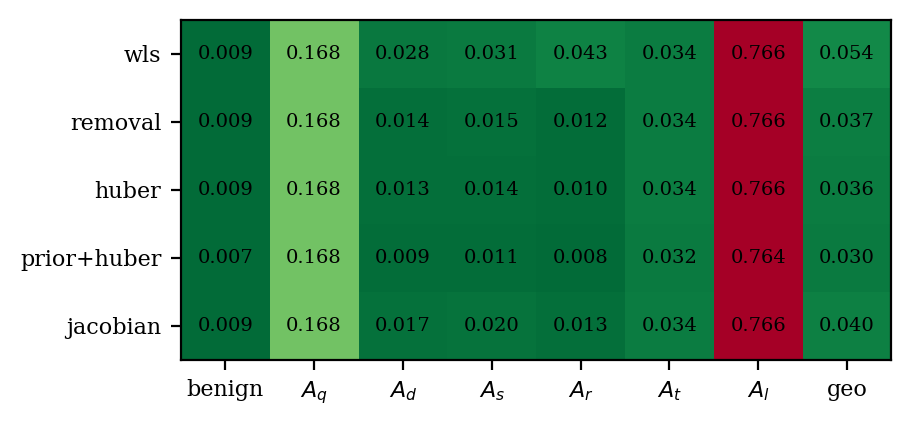
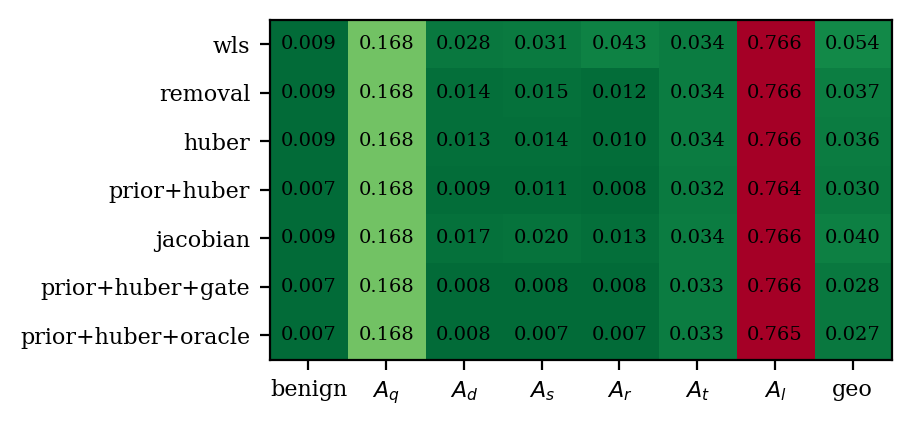
SE docs: IEEE-300 column (#62)
The IEEE-300 column of the SE docs: all arms except residual removal, Jacobian weighting and gated numbers, per-family heatmap.

diff --git a/docs/se/README.md b/docs/se/README.md
@@ -35,70 +35,74 @@ rep  = est.score(test)      # per-family angle/voltage MAE vs the clean truth
 
 ## Results
 
-Test partition, validation-selected hyperparameters from the estimation paper (Huber `c` 1.5 / 2.5,
-rank fraction 0.20 / 0.50, removal threshold 4.0 / 5.0 on IEEE 14 / 118). Each cell is the mean
-absolute error aggregated over the seven record classes as a geometric mean. Full metrics in
-`results/se_ieee{14,118}.json`. IEEE 300 follows once its run finishes (the robust arms take hours
-per system on 300; each estimator's estimates are cached as it completes).
+Test partition, validation-selected hyperparameters from the estimation paper (Huber `c` 1.5 / 2.5 /
+6.0, rank fraction 0.20 / 0.50 / 0.50 on IEEE 14 / 118 / 300; removal threshold 4.0 / 5.0 on 14 / 118). Each cell
+is the mean absolute error aggregated over the seven record classes as a geometric mean. Full metrics
+in `results/se_ieee{14,118,300}.json`. Residual removal is not run on IEEE 300: its per-record
+observability guard takes many hours at that size, and the estimation paper found no removal
+threshold that helped on 300.
 
 **Estimator comparison**
 
-| Estimator | IEEE 14 | IEEE 118 |
-|---|---:|---:|
-| *Angle MAE (deg)* | | |
-| WLS baseline | 0.108 | 0.054 |
-| Residual removal | 0.070 | 0.037 |
-| Adaptive weighting | 0.068 | 0.036 |
-| **Prior + Huber (proposed)** | **0.059** | **0.030** |
-| Jacobian weighting | 0.087 | 0.040 |
-| **Prior + Huber + CNN gate** | **0.041** | **0.028** |
-| Prior + Huber + oracle gate (ceiling) | 0.039 | 0.028 |
-| WLS error reduction (proposed) | 45% | 45% |
-| WLS error reduction (gated) | 62% | 48% |
+| Estimator | IEEE 14 | IEEE 118 | IEEE 300 |
+|---|---:|---:|---:|
+| *Angle MAE (deg)* | | | |
+| WLS baseline | 0.108 | 0.054 | 0.097 |
+| Residual removal | 0.070 | 0.037 | not run |
+| Adaptive weighting | 0.068 | 0.036 | 0.068 |
+| **Prior + Huber (proposed)** | **0.059** | **0.030** | **0.058** |
+| Jacobian weighting | 0.087 | 0.040 | 0.074 |
+| **Prior + Huber + CNN gate** | **0.041** | **0.028** | **0.055** |
+| Prior + Huber + oracle gate (ceiling) | 0.039 | 0.027 | 0.054 |
+| WLS error reduction (proposed) | 45% | 45% | 40% |
+| WLS error reduction (gated) | 62% | 48% | 43% |
 
-| Estimator | IEEE 14 | IEEE 118 |
-|---|---:|---:|
-| *Voltage MAE (10^-3 pu)* | | |
-| WLS baseline | 0.606 | 0.165 |
-| Residual removal | 0.427 | 0.113 |
-| Adaptive weighting | 0.380 | 0.111 |
-| **Prior + Huber (proposed)** | **0.147** | **0.028** |
-| Jacobian weighting | 0.494 | 0.125 |
-| **Prior + Huber + CNN gate** | **0.161** | **0.029** |
-| Prior + Huber + oracle gate (ceiling) | 0.158 | 0.027 |
-| WLS error reduction (proposed) | 76% | 83% |
+| Estimator | IEEE 14 | IEEE 118 | IEEE 300 |
+|---|---:|---:|---:|
+| *Voltage MAE (10^-3 pu)* | | | |
+| WLS baseline | 0.606 | 0.165 | 0.321 |
+| Residual removal | 0.427 | 0.113 | not run |
+| Adaptive weighting | 0.380 | 0.111 | 0.250 |
+| **Prior + Huber (proposed)** | **0.147** | **0.028** | **0.114** |
+| Jacobian weighting | 0.494 | 0.125 | 0.261 |
+| **Prior + Huber + CNN gate** | **0.161** | **0.029** | **0.106** |
+| Prior + Huber + oracle gate (ceiling) | 0.158 | 0.027 | 0.105 |
+| WLS error reduction (proposed) | 76% | 83% | 64% |
 
-The estimation paper reports, on v0.4.1 data, angle 0.164 → 0.068 (14) and 0.075 → 0.033 (118) from
-WLS to the proposed estimator, and voltage reductions of 57% and 85%. The v0.7.2 shards carry the
-accuracy-class meter model, so absolute errors are lower, and the ordering and the reductions hold.
+The estimation paper reports, on v0.4.1 data, angle 0.164 → 0.068 (14), 0.075 → 0.033 (118) and
+0.129 → 0.068 (300) from WLS to the proposed estimator, and voltage reductions of 57%, 85% and 68%.
+The v0.7.2 shards carry the accuracy-class meter model, so absolute errors are lower, and the
+ordering and the reductions hold on all three systems.
 
 **Per-family results of the proposed estimator.** Baseline cells are the WLS error, reduction is
 the proposed estimator's percent reduction over that baseline.
 
-| Family | Base angle (deg) 14 | Base angle (deg) 118 | Base volt (10^-3) 14 | Base volt (10^-3) 118 | Angle red. (%) 14 | Angle red. (%) 118 | Volt red. (%) 14 | Volt red. (%) 118 |
-|---|---:|---:|---:|---:|---:|---:|---:|---:|
-| Benign | 0.008 | 0.009 | 0.15 | 0.09 | -45 | 25 | 58 | 80 |
-| Bias (Ad) | 0.136 | 0.028 | 3.90 | 0.55 | 80 | 66 | 97 | 95 |
-| Scaling (As) | 0.246 | 0.031 | 1.17 | 0.33 | 67 | 66 | 85 | 91 |
-| Replay (Ar) | 0.137 | 0.043 | 1.12 | 0.17 | 82 | 82 | 93 | 88 |
-| Stealthy re-solve (Aq) | 0.382 | 0.168 | 0.62 | 0.10 | -5 | 0 | 30 | 63 |
-| Slow ramp (At) | 0.065 | 0.034 | 0.19 | 0.09 | 1 | 4 | 48 | 79 |
-| Load redistribution (Al) | 0.180 | 0.766 | 0.34 | 0.14 | 15 | 0 | 4 | 39 |
+| Family | Base angle (deg) 14 | Base angle (deg) 118 | Base angle (deg) 300 | Base volt (10^-3) 14 | Base volt (10^-3) 118 | Base volt (10^-3) 300 | Angle red. (%) 14 | Angle red. (%) 118 | Angle red. (%) 300 | Volt red. (%) 14 | Volt red. (%) 118 | Volt red. (%) 300 |
+|---|---:|---:|---:|---:|---:|---:|---:|---:|---:|---:|---:|---:|
+| Benign | 0.008 | 0.009 | 0.015 | 0.15 | 0.09 | 0.15 | -45 | 25 | 23 | 58 | 80 | 68 |
+| Bias (Ad) | 0.136 | 0.028 | 0.025 | 3.90 | 0.55 | 0.33 | 80 | 66 | 41 | 97 | 95 | 81 |
+| Scaling (As) | 0.246 | 0.031 | 0.025 | 1.17 | 0.33 | 0.26 | 67 | 66 | 39 | 85 | 91 | 73 |
+| Replay (Ar) | 0.137 | 0.043 | 0.132 | 1.12 | 0.17 | 0.45 | 82 | 82 | 89 | 93 | 88 | 86 |
+| Stealthy re-solve (Aq) | 0.382 | 0.168 | 0.392 | 0.62 | 0.10 | 0.34 | -5 | 0 | 0 | 30 | 63 | 23 |
+| Slow ramp (At) | 0.065 | 0.034 | 0.070 | 0.19 | 0.09 | 0.17 | 1 | 4 | 2 | 48 | 79 | 56 |
+| Load redistribution (Al) | 0.180 | 0.766 | 2.277 | 0.34 | 0.14 | 1.01 | 15 | 0 | 0 | 4 | 39 | 6 |
 
 Angle MAE per estimator and family (degrees, lower is better, `geo` is the summary column):
 
-| IEEE 14 | IEEE 118 |
-|---|---|
-| ![](results/fig_se_ieee14.png) | ![](results/fig_se_ieee118.png) |
+| IEEE 14 | IEEE 118 | IEEE 300 |
+|---|---|---|
+| ![](results/fig_se_ieee14.png) | ![](results/fig_se_ieee118.png) | ![](results/fig_se_ieee300.png) |
 
 Two readings:
 
 1. **Robustness cleans up what it can see.** `Ad`/`As`/`Ar` corrupt meters in place and leave large
    residuals. Removal and Huber each cut their angle error, and the prior on top takes 66 to 82
-   percent off the baseline angle error and 85 to 97 percent off the voltage error, on both systems.
+   percent off the baseline angle error on 14 and 118 (39 to 89 percent on 300, where the in-place
+   families start closer to the noise floor) and 73 to 97 percent off the voltage error everywhere.
 2. **The stealthy families barely move.** `Aq`/`At`/`Al` re-solve the physics, so there is nothing
    for a robust weight or a residual test to reject. Angle reduction sits between -5 and 15 percent
-   on 14 and at 0 to 4 percent on 118 for every method. Recovering the truth under a stealthy attack
+   on 14, 0 to 4 percent on 118 and 0 to 2 percent on 300 for every method. Recovering the truth
+   under a stealthy attack
    needs temporal information, not better weighting. The detection side of that story is in
    [`../localization/README.md`](../localization/README.md).
 
@@ -106,10 +110,11 @@ Two readings:
 
 `JacobianWeighting` applies the digest's idea to estimation: the part of the measurement change
 since the previous clean state that no state change can explain, `r⊥ = (I − P_H)Δz`, sets Huber
-weights before a single solve. It cuts WLS angle error by 19% on 14 and 26% on 118, entirely on the
-in-place corruption families (`Ad` 0.136 → 0.087, `As` 0.246 → 0.177, `Ar` 0.137 → 0.066 on 14), and
-leaves the stealthy families untouched, exactly as `(I − P_H)a = 0` predicts. It does not reach the
-iterated Huber arm (0.068 on 14), and composing the two (Jacobian weights first, Huber passes on
+weights before a single solve. It cuts WLS angle error by 19% on 14, 26% on 118 and 23% on 300,
+entirely on the in-place corruption families (`Ad` 0.136 → 0.087, `As` 0.246 → 0.177, `Ar` 0.137 →
+0.066 on 14; `Ar` 0.132 → 0.032 on 300), and leaves the stealthy families untouched, exactly as
+`(I − P_H)a = 0` predicts. It does not reach the iterated Huber arm (0.068 on 14 and on 300), and
+composing the two (Jacobian weights first, Huber passes on
 top) lands on Huber's number (0.067). The temporal unexplained residual carries the information
 Huber already recovers from the estimate's own residual, so this route cannot move the proposed
 estimator; the route that can is gating it with a localizer (`GatedPrior`), since localization sees
@@ -122,18 +127,19 @@ on a flagged bus and every flow on a branch incident to it is down-weighted by 1
 prior supplies the state there. The CNN gate is the papers' localizer trained on the same train split
 (all families); the oracle gate uses the true labels and is the ceiling for any gate.
 
-| | IEEE 14 | | | IEEE 118 | | |
-|---|---:|---:|---:|---:|---:|---:|
-| angle MAE (deg) | proposed | + CNN gate | + oracle | proposed | + CNN gate | + oracle |
-| Aq stealthy re-solve | 0.402 | 0.256 | 0.227 | 0.168 | 0.168 | 0.168 |
-| Ad / As / Ar in-place | 0.027 / 0.080 / 0.025 | 0.020 / 0.021 / 0.020 | 0.020 / 0.021 / 0.019 | 0.009 / 0.011 / 0.008 | 0.008 / 0.008 / 0.008 | 0.008 / 0.007 / 0.007 |
-| At slow ramp | 0.064 | 0.044 | 0.040 | 0.032 | 0.033 | 0.033 |
-| Al redistribution | 0.154 | 0.153 | 0.152 | 0.764 | 0.766 | 0.765 |
-| geometric mean | 0.059 | **0.041** | 0.039 | 0.030 | **0.028** | 0.028 |
+| | IEEE 14 | | | IEEE 118 | | | IEEE 300 | | |
+|---|---:|---:|---:|---:|---:|---:|---:|---:|---:|
+| angle MAE (deg) | proposed | + CNN gate | + oracle | proposed | + CNN gate | + oracle | proposed | + CNN gate | + oracle |
+| Aq stealthy re-solve | 0.402 | 0.256 | 0.227 | 0.168 | 0.168 | 0.168 | 0.391 | 0.391 | 0.391 |
+| Ad / As / Ar in-place | 0.027 / 0.080 / 0.025 | 0.020 / 0.021 / 0.020 | 0.020 / 0.021 / 0.019 | 0.009 / 0.011 / 0.008 | 0.008 / 0.008 / 0.008 | 0.008 / 0.007 / 0.007 | 0.015 / 0.015 / 0.014 | 0.013 / 0.012 / 0.013 | 0.012 / 0.012 / 0.012 |
+| At slow ramp | 0.064 | 0.044 | 0.040 | 0.032 | 0.033 | 0.033 | 0.068 | 0.068 | 0.068 |
+| Al redistribution | 0.154 | 0.153 | 0.152 | 0.764 | 0.766 | 0.765 | 2.276 | 2.277 | 2.277 |
+| geometric mean | 0.059 | **0.041** | 0.039 | 0.030 | **0.028** | 0.027 | 0.058 | **0.055** | 0.054 |
 
 Reading: on IEEE 14 the predicted gate takes 31 percent off the proposed estimator and lands within 4
-percent of the oracle, and it is the first thing that moves the stealthy `Aq` family. On IEEE 118 the
-gain shrinks to 5 percent and `Aq` does not move even with the oracle gate. Removing a few buses'
+percent of the oracle, and it is the first thing that moves the stealthy `Aq` family. On IEEE 118 and
+300 the gain shrinks to 5 percent, all of it on the in-place families, and `Aq`, `At` and `Al` do not
+move even with the oracle gate. Removing a few buses'
 meters on a small grid removes most of the evidence of the re-solved state and the prior pulls the
 estimate back toward typical operation; on a large grid the attack's footprint spreads over many
 unflagged branches and the remaining measurements still describe the attacked physics. Gating helps
@@ -151,5 +157,8 @@ FG_SYSTEM=ieee300 python docs/se/run_se.py
 python docs/se/make_report.py                  # tables (markdown) + figures + CSV from the JSON
 ```
 
-Wall time with the GPU to itself: minutes on IEEE-14; on IEEE-118 WLS 1 min, removal 1.1 h, Huber
-5.6 h, prior + Huber 1.9 h. Re-runs score from `results/cache/` in about a minute per arm.
+`FG_SKIP=removal,...` leaves arms out of a run; the IEEE-300 column was made with `FG_SKIP=removal`.
+Wall time on the CPU with 0.14.1's batched solver: minutes on IEEE-14; on IEEE-300 WLS 1 min, Huber
+2.1 h, prior + Huber 47 min, Jacobian weighting 5 min, each gated arm 48 min (the IEEE-118 arms were
+run before the 0.14.1 speedups and took 1 to 6 h each). Re-runs score from `results/cache/` in about
+a minute per arm.
